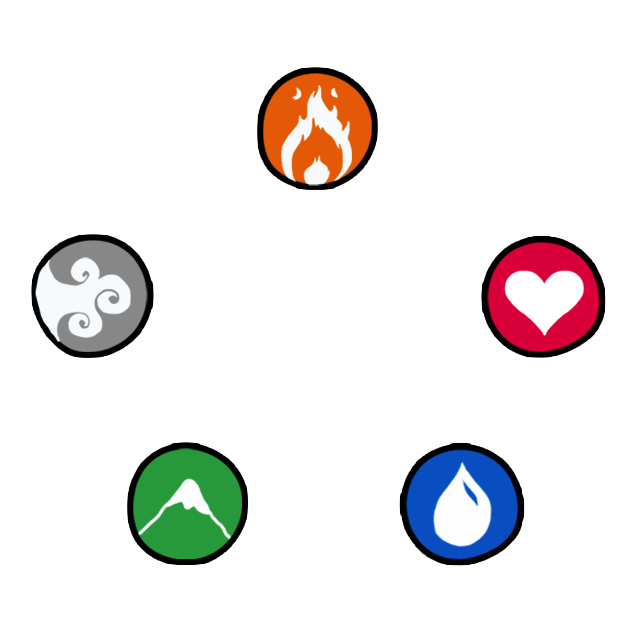
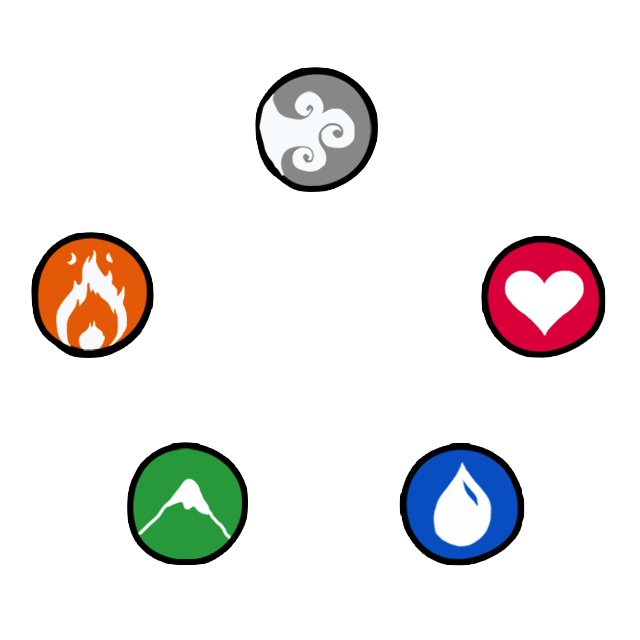
tracing the combos!

Changed region(s): [[0.0312, 0.3438, 0.25, 0.5625], [0.375, 0.0938, 0.5938, 0.3125]]

diff --git a/WizardWar/Menus/SpellbookCastDiagramView.m b/WizardWar/Menus/SpellbookCastDiagramView.m
@@ -7,6 +7,9 @@
 //
 
 #import "SpellbookCastDiagramView.h"
+#import "SpellEffectService.h"
+#import "Elements.h"
+#import "NSArray+Functional.h"
 
 static CGFloat const kDashedPhase           = (0.0f);
 static CGFloat const kDashedLinesLength[]   = {4.0f, 2.0f};
@@ -20,6 +23,7 @@ static size_t const kDashedCount            = (2.0f);
 @property (nonatomic) CGPoint centerHeart;
 @property (nonatomic) CGPoint centerWater;
 @property (nonatomic) CGFloat strokeWidth;
+@property (nonatomic, strong) SpellInfo * info;
 @end
 
 @implementation SpellbookCastDiagramView
@@ -55,12 +59,95 @@ static size_t const kDashedCount            = (2.0f);
     self.strokeWidth = 6.0;
 }
 
+- (void)setRecord:(SpellRecord *)record {
+    _record = record;
+    self.info = [SpellEffectService.shared infoForType:record.type];
+}
+
 - (void)calculatePositions {
-    self.centerFire  = CGPointMake(self.bounds.size.width*0.495, self.bounds.size.width*0.2);
-    self.centerAir   = CGPointMake(self.bounds.size.width*0.145, self.bounds.size.height*0.465);
+    self.centerAir   = CGPointMake(self.bounds.size.width*0.495, self.bounds.size.width*0.2);
+    self.centerFire  = CGPointMake(self.bounds.size.width*0.145, self.bounds.size.height*0.465);
     self.centerHeart = CGPointMake(self.bounds.size.width*0.846, self.bounds.size.height*0.465);
     self.centerEarth = CGPointMake(self.bounds.size.width*0.29, self.bounds.size.height*0.79);
     self.centerWater = CGPointMake(self.bounds.size.width*0.72, self.bounds.size.height*0.79);
+}
+
+- (CGPoint)pointForElement:(ElementType)element {
+    if (element == Fire) return self.centerFire;
+    if (element == Air) return self.centerAir;
+    if (element == Earth) return self.centerEarth;
+    if (element == Water) return self.centerWater;
+    else return self.centerHeart;
+}
+
+- (NSArray*)allPoints:(Combo*)combo {
+    // convert to an array of elements, then map into points
+    return [[self allElements:combo] map:^(NSNumber * elementNumber) {
+        ElementType element = [elementNumber intValue];
+        return [NSValue valueWithCGPoint:[self pointForElement:element]];
+    }];
+}
+
+- (NSArray*)allElements:(Combo*)combo {
+    if (combo.orderedElements) return combo.orderedElements;
+    
+    NSMutableArray * elements = [NSMutableArray array];
+    
+    // Make a selectedElements based on everything else
+    ComboSelectedElements * selected = combo.selectedElements;
+    if (!combo.selectedElements) {
+        // it's only not defined for a basic5 combo
+        // so set them all to true
+        selected = [ComboSelectedElements new];
+        selected.fire = YES;
+        selected.air = YES;
+        selected.water = YES;
+        selected.heart = YES;
+        selected.earth = YES;
+    }
+
+    
+    // Now add each selected one to the array
+    if (selected.air)   [elements addObject:@(Air)];
+    if (selected.heart) [elements addObject:@(Heart)];
+    if (selected.water) [elements addObject:@(Water)];
+    if (selected.earth) [elements addObject:@(Earth)];
+    if (selected.fire)  [elements addObject:@(Fire)];
+    
+    // Select a start element.
+    // Walk backwards on the list, as long as things are selected
+    ElementType startElement = combo.startElement;
+    if (!combo.startElement) {
+        startElement = Air;
+        if (selected.fire) {
+            startElement = Fire;
+            if (selected.earth) {
+                startElement = Earth;
+                if (selected.water) {
+                    startElement = Water;
+                    if (selected.heart) {
+                        startElement = Heart;
+                    }
+                }
+            }
+        }
+    }
+    
+    // Sort by clockwise distance
+    return [elements sortedArrayUsingComparator:^NSComparisonResult(id obj1, id obj2) {
+        ElementType one = [obj1 intValue];
+        ElementType two = [obj2 intValue];
+        NSInteger distanceOne = [self clockwiseDistance:one fromStart:startElement];
+        NSInteger distanceTwo = [self clockwiseDistance:two fromStart:startElement];
+        if (distanceOne < distanceTwo) return NSOrderedAscending;
+        return NSOrderedDescending;
+    }];
+}
+
+-(NSInteger)clockwiseDistance:(ElementType)element fromStart:(ElementType)start {
+    NSInteger distance = element - start;
+    if (distance < 0) distance = 5+distance;
+    return distance;
 }
 
 // Only override drawRect: if you perform custom drawing.
@@ -69,36 +156,45 @@ static size_t const kDashedCount            = (2.0f);
 {
     [super drawRect:rect];
     [self calculatePositions];
-    
+    Combo * combo = self.info.combo;
     CGContextRef context = UIGraphicsGetCurrentContext();
-    
     CGContextSetLineWidth(context, self.strokeWidth);
+    CGContextSetLineDash(context, kDashedPhase, kDashedLinesLength, kDashedCount);
+
+    // DRAW THE CIRCLE
+    ElementType startElement = ElementTypeNone;
+    if (combo.startElement)
+        startElement = combo.startElement;
+    else if (combo.orderedElements.count)
+        startElement = [combo.orderedElements[0] intValue];
+    
+    if (startElement) {
+        CGPoint circlePoint = [self pointForElement:startElement];
+        CGContextSetStrokeColorWithColor(context, [UIColor redColor].CGColor);
+        CGFloat radius = 18;
+        CGRect circleBounds = CGRectMake(circlePoint.x-radius, circlePoint.y-radius, radius*2, radius*2);
+        CGContextStrokeEllipseInRect(context, circleBounds);
+    }
+    
+    // Now, start at the "first one"
+    // Hmm, I need an array of elements, always, I think
     CGContextSetStrokeColorWithColor(context, [UIColor grayColor].CGColor);
     
-    CGContextSetLineDash(context, kDashedPhase, kDashedLinesLength, kDashedCount) ;
-    
-    CGContextMoveToPoint(context, self.centerFire.x, self.centerFire.y);
-    
-//    CGContextAddLineToPoint(context, self.centerAir.x, self.centerAir.y);
-//    CGContextAddLineToPoint(context, self.centerHeart.x, self.centerHeart.y);
-//    CGContextAddLineToPoint(context, self.centerWater.x, self.centerWater.y);
-//    CGContextAddLineToPoint(context, self.centerEarth.x, self.centerEarth.y);
-//    CGContextAddLineToPoint(context, self.centerFire.x, self.centerFire.y);
-//    CGContextAddLineToPoint(context, self.centerWater.x, self.centerWater.y);
-//    CGContextAddLineToPoint(context, self.centerAir.x, self.centerAir.y);
-//    CGContextAddLineToPoint(context, self.centerEarth.x, self.centerEarth.y);
-//    CGContextAddLineToPoint(context, self.centerHeart.x, self.centerHeart.y);
-//    CGContextAddLineToPoint(context, self.centerFire.x, self.centerFire.y);
-    
-//    CGContextAddRect(context, rect);
+    BOOL started = NO;
+    NSArray * points = [self allPoints:combo];
+    for (NSValue * value in points) {
+        CGPoint point = [value CGPointValue];
+        if (!started) {
+            CGContextMoveToPoint(context, point.x, point.y);
+            started = YES;
+        }
+        else {
+            CGContextAddLineToPoint(context, point.x, point.y);
+        }
+    }
     
     CGContextStrokePath(context);
     
-    CGPoint circlePoint = self.centerEarth;
-    CGContextSetStrokeColorWithColor(context, [UIColor redColor].CGColor);
-    CGFloat radius = 18;
-    CGRect circleBounds = CGRectMake(circlePoint.x-radius, circlePoint.y-radius, radius*2, radius*2);
-    CGContextStrokeEllipseInRect(context, circleBounds);
 }
 
 @end

diff --git a/WizardWar/Menus/SpellbookInfoView.m b/WizardWar/Menus/SpellbookInfoView.m
@@ -56,6 +56,7 @@
 - (void)setRecord:(SpellRecord *)record {
     _record = record;
     self.imageView.image = [UIImage imageNamed:[SpellbookService.shared spellIconName:record]];
+    self.diagram.record = record;
 }
 
 

diff --git a/WizardWar/Elements.h b/WizardWar/Elements.h
@@ -11,10 +11,10 @@
 typedef enum ElementType {
     ElementTypeNone,
     Air,
-    Earth,
-    Fire,
     Heart,
-    Water
+    Water,
+    Earth,
+    Fire
 } ElementType;
 
 #define AirId @"A"
